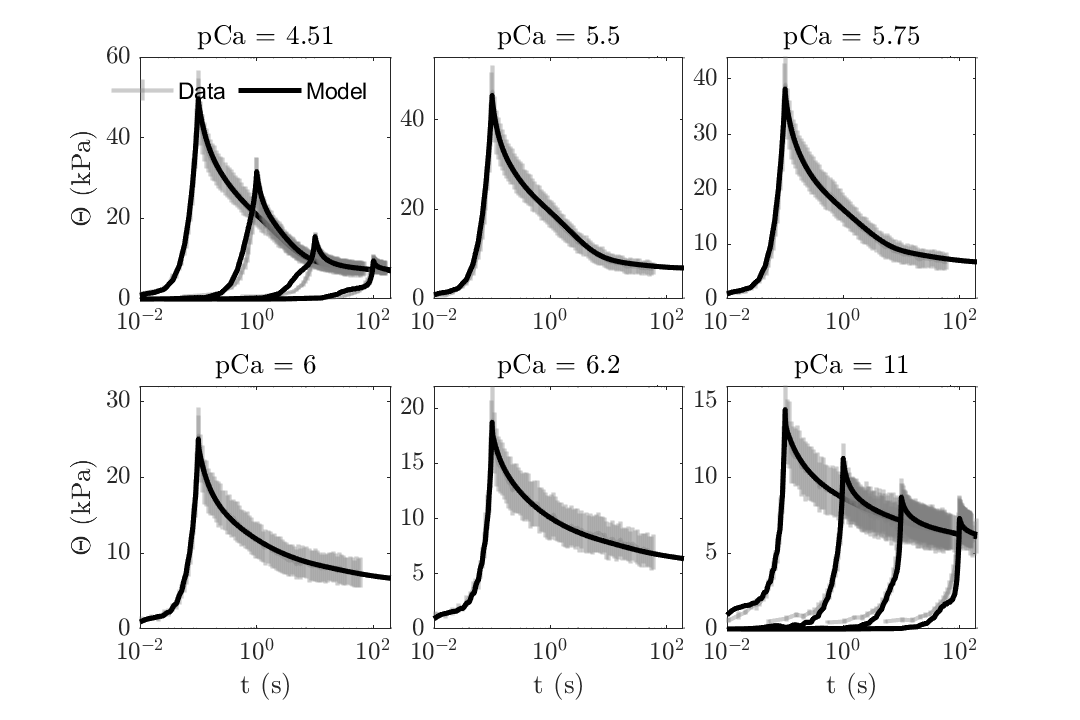
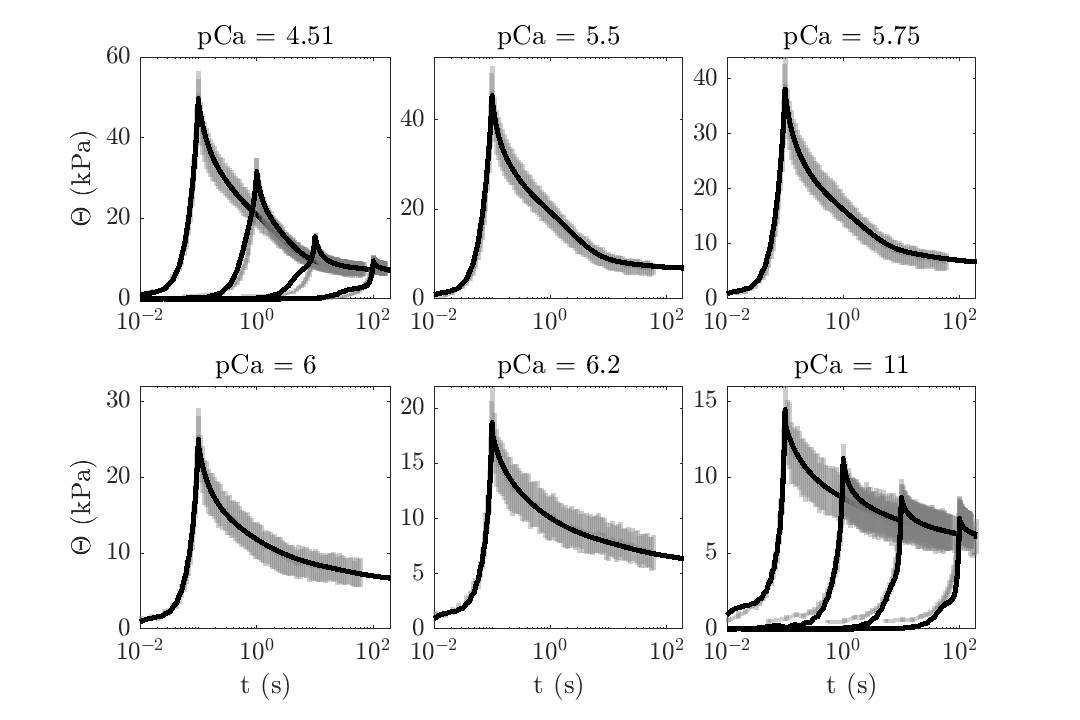
Fix figure

diff --git a/Model/RunCombinedModel.m b/Model/RunCombinedModel.m
@@ -27,9 +27,12 @@ end
 
 %% model inputs settings
 if ~exist('pCa', 'var')
-    pCa = 11;
+    % pCa is one of these: [4.51, 5.5, 5.75, 6, 6.2, 11]
+    pCa = 11;    
 end
-if ~exist('params', 'var')
+if ~exist('params', 'var')    
+    paramNames = {'\F_{ss}', 'n_ss' , 'k_p'    , 'n_p'    , 'k_d'   , 'n_d'    , '\alpha_U'  , 'n_U'    , '\mu'    , '\delta_U'    , 'k_{A}'   , 'k_{D}'   };
+
     % Nice fit of everything    
     paramSet = [...
       5.19       12.8       4345       2.37      4e+04       2.74  8.658e+05      5.797      0.678      0.165   0.005381      0.383 
@@ -888,6 +891,7 @@ aspect = 2;
 if plotInSeparateFigure
     set(groot,'CurrentFigure',figInd); % replace figure(indFig) without stealing the focus
     cf = clf;
+    % cf = gcf;
      
     % normal size of 2-col figure on page is 7.2 inches
     % matlab's pixel is 1/96 of an inch
@@ -928,10 +932,26 @@ for j = max(rampSet):-1:1
     if isempty(Force{j})
         continue;
     end
-    hd{j} = errorbar(datatables{j}.Time-2,datatables{j}.F,datatables{j}.SD, '-', LineWidth=2, Color=colors(3, :), CapSize=0);
-    set([hd{j}.Bar, hd{j}.Line], 'ColorType', 'truecoloralpha', 'ColorData', [hd{j}.Line.ColorData(1:3); 255*0.4])
-    hm{j} = semilogx(Time{j},Force{j},'-', 'linewidth',2.5, 'Color', colors(1, :)); 
-    hph{j} = plot(nan, nan, 'x',Color=[1 1 1]); % just a placeholder
+    if ~exist('compareFig', 'var') || ~compareFig
+        hd{j} = errorbar(datatables{j}.Time-2,datatables{j}.F,datatables{j}.SD, '-', LineWidth=2, Color=colors(3, :), CapSize=0);
+        set([hd{j}.Bar, hd{j}.Line], 'ColorType', 'truecoloralpha', 'ColorData', [hd{j}.Line.ColorData(1:3); 255*0.4])
+        hm{j} = semilogx(Time{j},Force{j},'-', 'linewidth',2.5, 'Color', colors(1, :)); 
+        
+        % if ~exist('ignoreLegends', 'var') || ~ignoreLegends
+        hl = legend([hd{max(rampSet)} hm{max(rampSet)}], ...
+        'Data',...    
+        'Model',...
+        NumColumns=3);
+        % end
+    
+        hl.ItemTokenSize = [30, 20];
+        hl.Box = 'off';
+
+    else
+        hm{j} = semilogx(Time{j},Force{j},'r-', 'linewidth',1.5); 
+    end
+    
+    % hph{j} = plot(nan, nan, 'x',Color=[1 1 1]); % just a placeholder
     % set(h.Cap, 'EdgeColorType', 'truecoloralpha', 'EdgeColorData', [h.Cap.EdgeColorData(1:3); 255*alpha])
     ym = max([ym Force{j}, datatables{j}.F']);
     set(tile_semilogx, 'TickLength', [0.0125 0.05]);
@@ -963,13 +983,6 @@ box on;
 %     'Data', 'Data', 'Data', 'Data', ...    
 %     'Model', 'Model', 'Model', 'Model',...
 %     NumColumns=3);
-hl = legend([hd{1} hm{1}], ...
-    'Data',...    
-    'Model',...
-    NumColumns=3);
-
-hl.ItemTokenSize = [30, 20];
-hl.Box = 'off';
 
 if ~plotDetailedPlots || ~plotInSeparateFigure
     return;

diff --git a/Model/ExportFigures.m b/Model/ExportFigures.m
@@ -132,7 +132,7 @@ for i_pca = 1:size(pcax, 2)
     % rampSet = [4];
     clear params;
     RunCombinedModel;
-
+ 
     % leg = gca().Legend;
     % leg.NumColumns = 1;
     title(sprintf('pCa = %g', pcax(i_pca)), Interpreter="latex");
@@ -196,8 +196,12 @@ aspect = 1.5;
 set(cf, 'Position', [500  300  7.2*96 7.2*96/aspect]);
 % set(cf, 'Position', [500  300  3.5*96 3.5*96/aspect]);
 K = [5.9076, 5.9544, 5.7493, 5.8618];
-K_mean = mean(K)
-K_std = std(K)
+K_mean = round(mean(K), 2)
+K_std = round(std(K), 2)
+
+if saveFigures
+    saveas(cf, '../Figures/Figure9', 'png');
+end
 %% Figure 10 - hysteresis - choose relaxed or high calcium? Can add refolding too.
 clearvars -except saveFigures
 cf = figure(10);clf;
@@ -211,12 +215,14 @@ plotInSeparateFigure = true;
 params = [5.19       12.8       4345       2.37      4e+04       2.74  8.658e+05      5.797      0.678      0.165   0.005381      0.383];
 pCa = 4.51;
 % pCa 11
-params = [5.19       12.8      512.3       2.37      4e+04       2.74  2.668e+07      9.035      0.678      0.165        NaN        NaN];
-pCa = 11;
+% params = [5.19       12.8      512.3       2.37      4e+04       2.74  2.668e+07      9.035      0.678      0.165        NaN        NaN];
+% pCa = 11;
 
 % params(9) = 0.07;
 simtype = 'sin';
+params(9) = 5e-1;
 RunCombinedModel;
+
 
 if saveFigures
     saveas(cf, '../Figures/Figure10', 'png');
